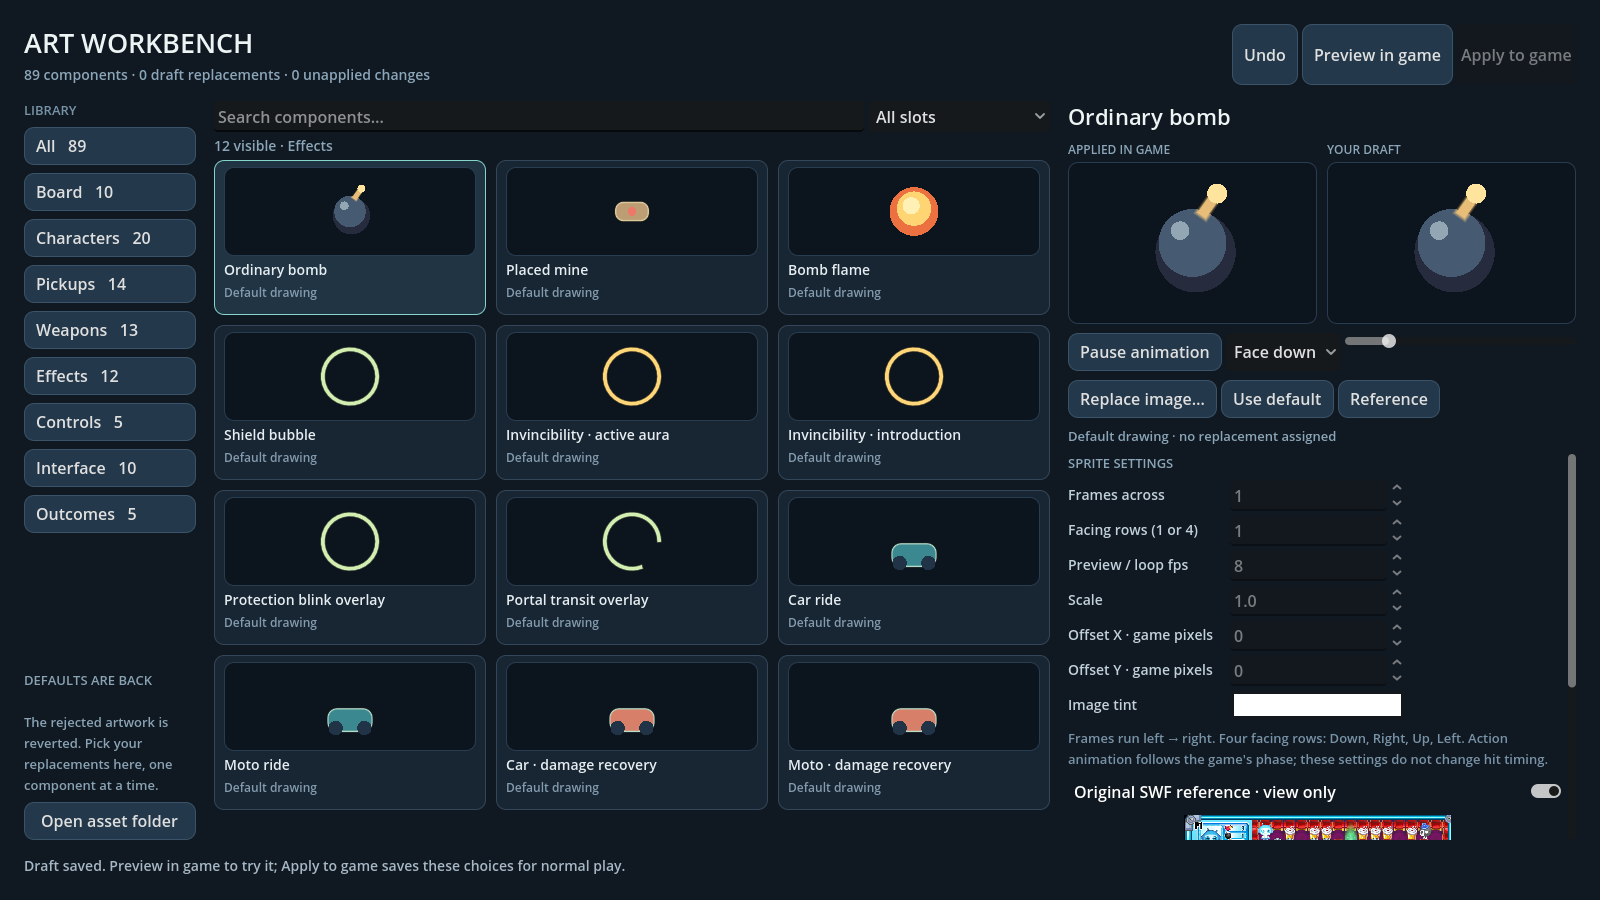
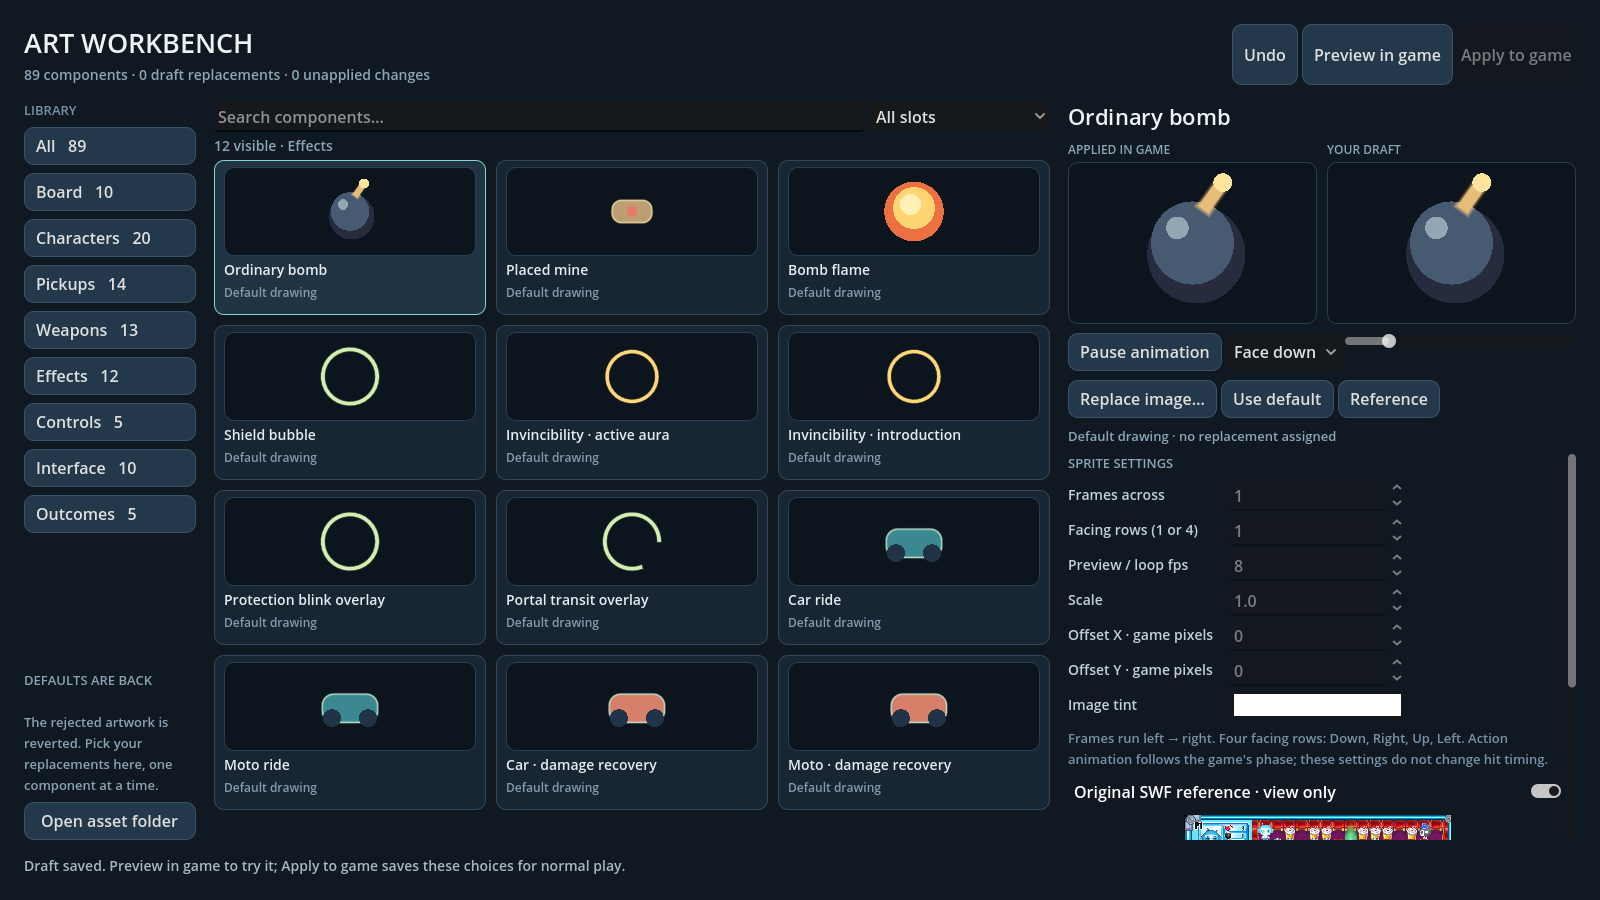
Match workbench previews to live sprite placement and action phases (#20)

diff --git a/tools/collect_workbench_verification.py b/tools/collect_workbench_verification.py
@@ -40,7 +40,7 @@ def main():
                               'References are preserved context screenshots, not a complete exported source sprite atlas.',
                               'Desktop authoring only; no phone/iOS testing or export.']})
     (OUT / 'verification.json').write_text(json.dumps(result, indent=2) + '\n')
-    print('Curated four workbench captures, 13 UI checks and five default RGB comparisons')
+    print(f"Curated four workbench captures, {result['checks']} UI/rendering checks and five default RGB comparisons")
 
 
 if __name__ == '__main__':

diff --git a/docs/verification/art-workbench-2026-10-20/README.md b/docs/verification/art-workbench-2026-10-20/README.md
@@ -6,8 +6,8 @@ fidelity baseline remains `ca86801`; #20 is reopened and #21 stays open. The new
 authoring tool implements the [accepted workbench workflow](../../../DESIGN.md),
 not approval of another art style.
 
-Implementation review is in progress. The normal game's checked-in active mapping
-is empty. With defaults, match, pause, death, ending and settled-loss captures
+Implementation and independent review are complete. The normal game's checked-in
+active mapping is empty. With defaults, match, pause, death, ending and settled-loss captures
 match the retained pre-artwork pixels exactly (RGB comparison). The game-over
 retry capture uses unseeded retry rounds, so that context is not claimed identical.
 
@@ -16,15 +16,38 @@ parse/typecheck. The real full-board outcomes remain seed 2 win at tick1848,
 seed 5 win at tick2195 and seed42 loss at tick237. No simulation, scheduler,
 controller, movement or damage implementation changes are included.
 
-`tools/check_art_workbench.gd` passes 13 desktop UI checks. Actual mouse events
+`tools/check_art_workbench.gd` passes 27 desktop UI/rendering checks. Actual mouse events
 exercise category/card selection, Replace, Preview in game, Apply, Use default
 and Undo. Image choice completes through the file dialog's public `file_selected`
 signal; this does not certify the OS/engine picker's internal mouse routing.
 Checks cover draft isolation, frame/scale settings, the actual 255-cell game with
 draft art and legal bomb input, reloading an applied mapping, reset/undo and
 rejection of direct research-art import. Test profiles are restored; the temporary
-two-colour fixture is removed from production imports. Its screenshots demonstrate
+two-colour fixture and four-colour phase fixture are removed from production imports. Its screenshots demonstrate
 wiring only and are not an art proposal.
+
+Rendered checks use distinct frame colours to compare the inspector with copied
+public game snapshots. They cover bomb, hammer, aura and held-item placement,
+character action phase independent of round tick, laser charge/beam/final frame
+and flamer charge/active phases. These compare new replacement rendering, not
+original-SWF pixels. Gameplay remains governed by the existing round.
+
+## Standards
+
+The independent review found one P3 normalization duplication. Editing and loading
+now share the same guarded normalization helper. There are zero outstanding findings.
+
+## Spec
+
+The independent review found two P2 issues: character action sheets used global
+time, and inspector geometry/animation could differ from live drawing. Shared
+placement and live actor/weapon drawing paths now project the same action phase;
+laser animation ends at frame 11 while its recovery lock continues. Failing
+rendered checks reproduced the problems before the fixes and now pass. The
+follow-up review confirms zero outstanding material findings.
+
+Review totals: Standards 0 outstanding; Spec 0 outstanding. Artwork selection and
+human presentation acceptance remain open in #20 and #21.
 
 Run `tools/run_checks.ps1` for gameplay regression checks, then invoke the pinned
 Godot 4.5 console executable with `--path . --resolution 1600x900 --script

diff --git a/docs/development.md b/docs/development.md
@@ -9,7 +9,8 @@ reopened and #21 remains open. The user now owns art selection through the
 applied/draft comparison, view-only original context, imported images and sheets,
 animation/facing/placement controls, undo/reset and preview in the actual game.
 The checked-in active manifest is empty, so normal play keeps the earlier native
-presentation. Workbench implementation/review status and verification are recorded
+presentation. The workbench passes 27 UI/rendering checks and independent Standards
+and Spec review, with no outstanding findings. Status and verification are recorded
 in [the workbench verification](verification/art-workbench-2026-10-20/README.md).
 
 Fidelity implementation #38–#55 is implemented, desktop-verified and reviewed on
